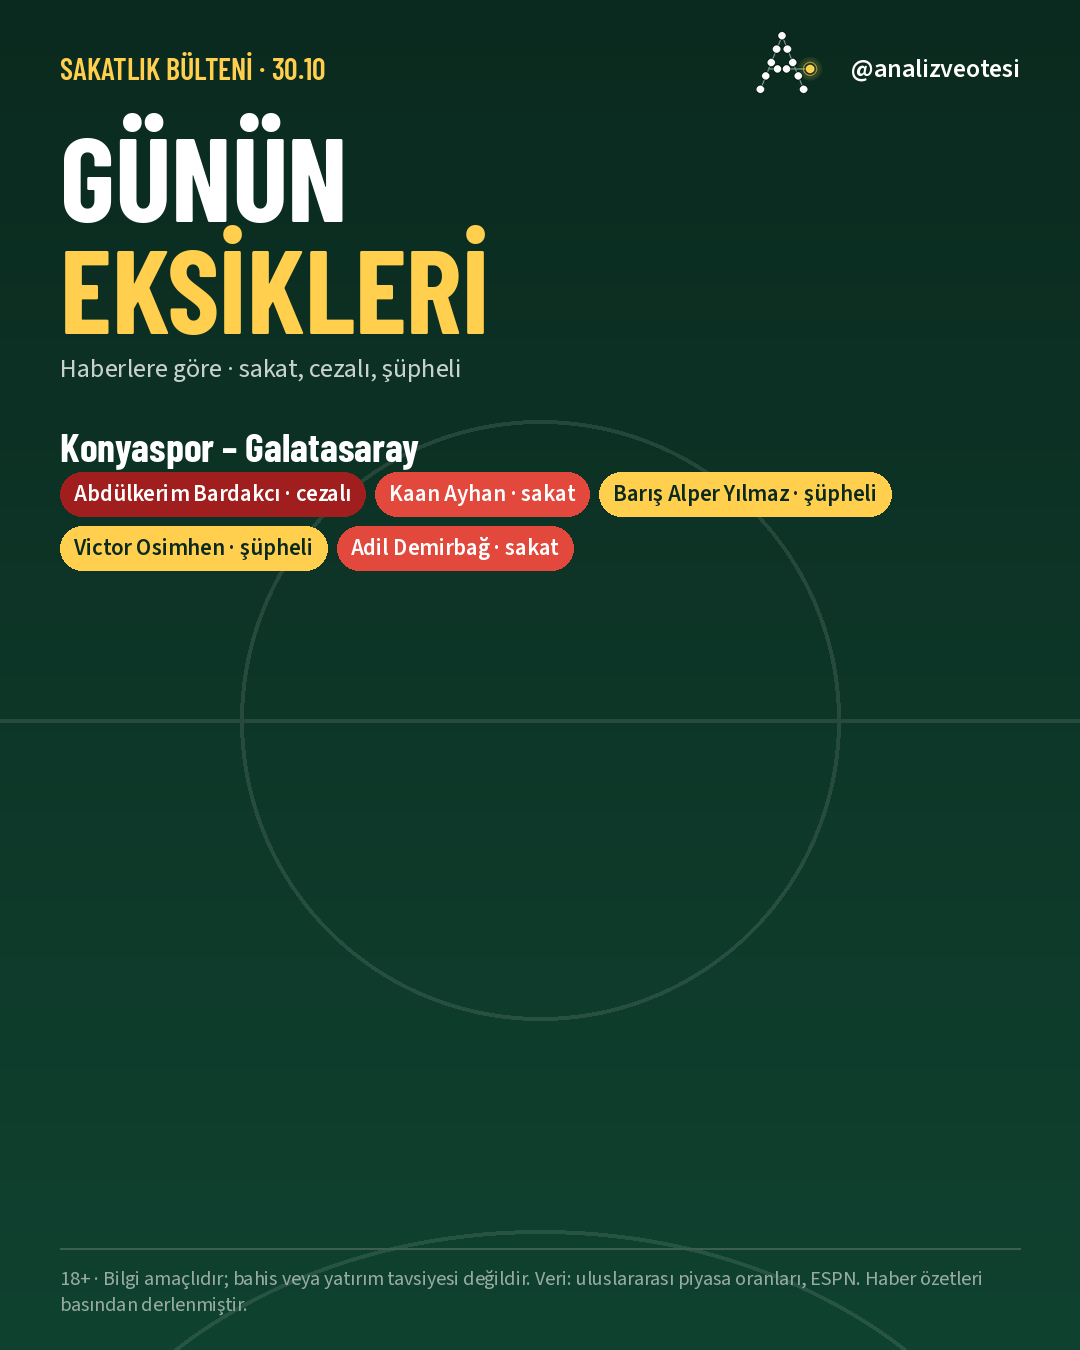
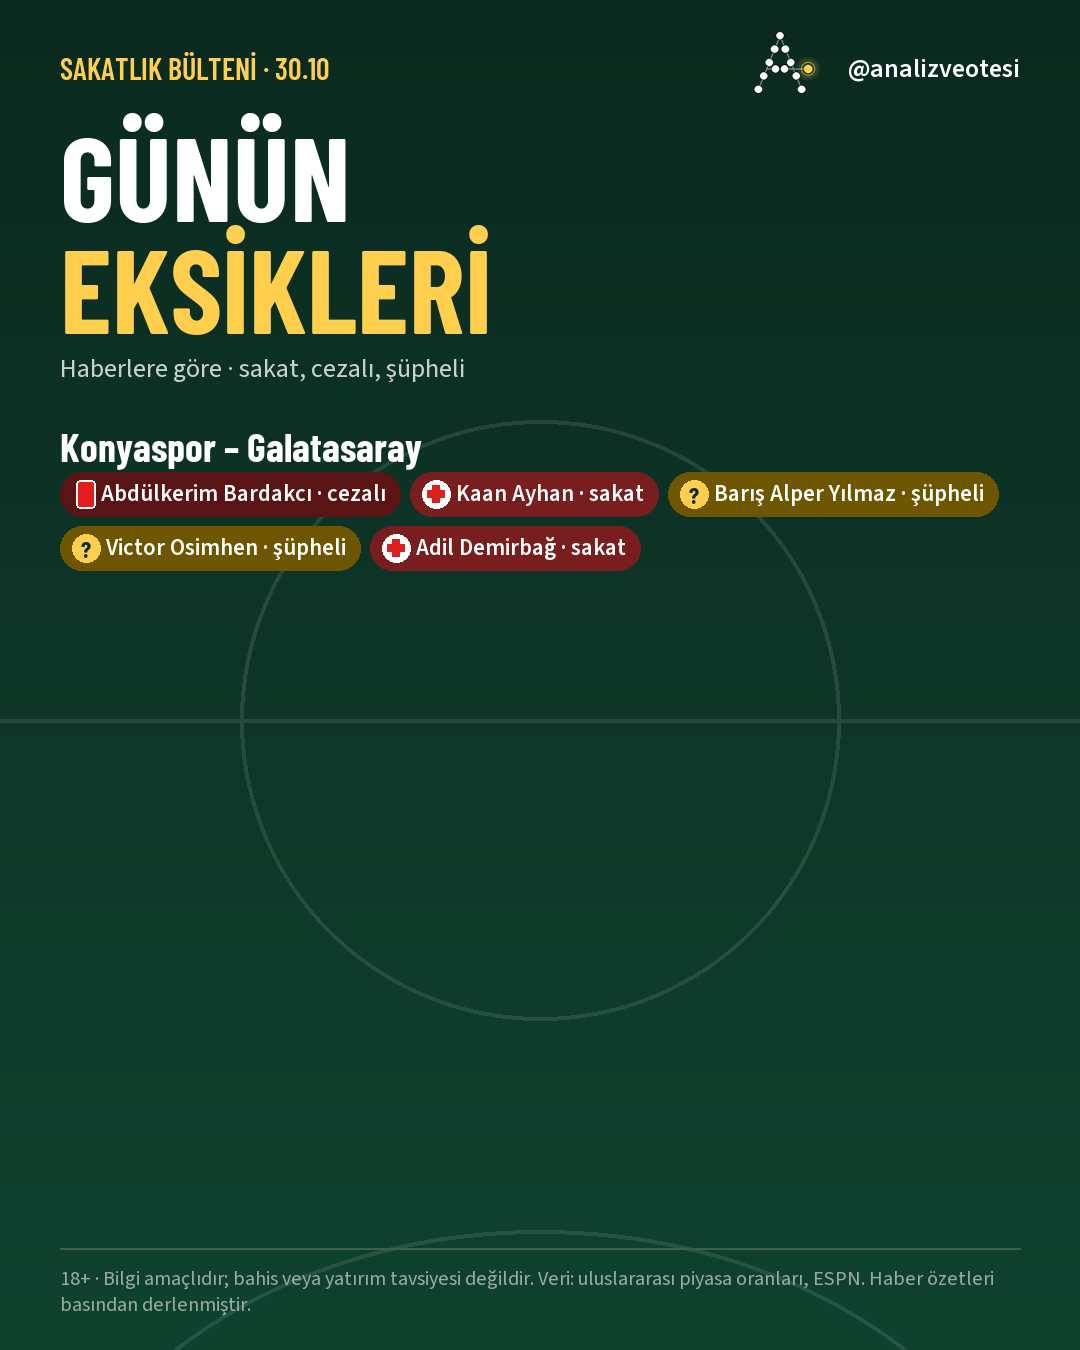
Eksik etiketlerinde durum simgeleri (kırmızı kart, sağlık artısı, soru, tik); kartlar elle yenilendi

diff --git a/docs/index.html b/docs/index.html
@@ -219,7 +219,7 @@ details.match summary{grid-template-columns:1fr auto}details.match summary time{
 
 <section class="board">
   <h1 class="verdict">Şu an oynanacak<br><em>fırsat yok.</em></h1>
-  <ul class="pills"><li><span class="pulse"></span>Nesine <b>18 dk önce</b> kontrol edildi</li><li>Dünya piyasası <b>3 saat önce</b> · gözcü açılınca tazelenir</li><li class="shadow">Gölge test · para oynanmıyor, her fırsat puanlanıyor</li></ul>
+  <ul class="pills"><li><span class="pulse"></span>Nesine <b>20 dk önce</b> kontrol edildi</li><li>Dünya piyasası <b>3 saat önce</b> · gözcü açılınca tazelenir</li><li class="shadow">Gölge test · para oynanmıyor, her fırsat puanlanıyor</li></ul>
   
 <ul class="facts">
   <li><div class="n">57</div><div class="l">yaklaşan maç takipte</div></li>

diff --git a/social.py b/social.py
@@ -124,12 +124,37 @@ def form_strip(d, x, y, games, size=44):
     return x
 
 
+def status_icon(d, x, y, status, h=28):
+    """Durum simgesi: cezalı = kırmızı kart, sakat = beyaz daire içinde kırmızı artı, şüpheli = sarı '?', döndü = yeşil tik."""
+    if status == "cezalı":
+        d.rounded_rectangle((x + 4, y, x + 4 + h * 0.68, y + h), radius=4, fill=(226, 30, 30), outline=WHITE, width=2)
+        return h * 0.68 + 8
+    if status == "sakat":
+        d.ellipse((x, y, x + h, y + h), fill=WHITE)
+        t = h * 0.22; c = h / 2
+        d.rectangle((x + c - t / 2, y + h * 0.2, x + c + t / 2, y + h * 0.8), fill=(220, 30, 30))
+        d.rectangle((x + h * 0.2, y + c - t / 2, x + h * 0.8, y + c + t / 2), fill=(220, 30, 30))
+        return h + 4
+    if status == "şüpheli":
+        d.ellipse((x, y, x + h, y + h), fill=YELLOW)
+        d.text((x + h / 2, y + h / 2 + 1), "?", font=font("display", int(h * 0.85)), fill=GREEN, anchor="mm")
+        return h + 4
+    if status == "döndü":
+        d.ellipse((x, y, x + h, y + h), fill=SIGNAL)
+        d.line((x + h * 0.25, y + h * 0.52, x + h * 0.43, y + h * 0.72, x + h * 0.76, y + h * 0.3), fill=GREEN, width=max(2, int(h * 0.12)), joint="curve")
+        return h + 4
+    return 0
+
+
 def status_pill(d, x, y, s, status):
-    col = {"sakat": RED, "cezalı": (160, 30, 30), "şüpheli": YELLOW, "döndü": SIGNAL}
-    fg = {"sakat": WHITE, "cezalı": WHITE, "şüpheli": GREEN, "döndü": GREEN}
-    f = font("semi", 23); w = f.getlength(s) + 28
+    """Etiket: simge + metin; metin 'Oyuncu · durum'."""
+    col = {"sakat": (120, 30, 30), "cezalı": (90, 20, 20), "şüpheli": (110, 85, 0), "döndü": (20, 90, 50)}
+    f = font("semi", 23)
+    icon_w = {"cezalı": 28 * 0.68 + 8, "sakat": 32, "şüpheli": 32, "döndü": 32}.get(status, 0)
+    w = f.getlength(s) + 28 + icon_w
     d.rounded_rectangle((x, y, x + w, y + 44), radius=22, fill=col.get(status, GREY))
-    d.text((x + 14, y + 22), s, font=f, fill=fg.get(status, WHITE), anchor="lm")
+    status_icon(d, x + 12, y + 8, status, 28)
+    d.text((x + 14 + icon_w, y + 22), s, font=f, fill=WHITE, anchor="lm")
     return w
 
 
@@ -245,12 +270,12 @@ def match_card(m, pm, ai, er, out_path):
         x = 60
         for a in absences[:6]:
             s = f"{a.get('player', '')} · {a.get('status', '')}"
-            w = font("semi", 23).getlength(s) + 28
+            w = font("semi", 23).getlength(s) + 28 + 34
             if x + w > W - 60:
                 x = 60; y += 54
             if y > H - 170:
                 break
-            status_pill(d, x, y, s, a.get("status")); x += w + 10
+            w = status_pill(d, x, y, s, a.get("status")); x += w + 10
         y += 60
     footer(d, dark=True)
     img.save(out_path, "PNG", optimize=True)
@@ -313,12 +338,12 @@ def injuries_card(items, day, out_path):
                 break
             text(d, (60, y), cur, font("display", 40), WHITE, max_w=W - 120); y += 50; x = 60
         s = f"{it['player']} · {it['status']}"
-        w = font("semi", 23).getlength(s) + 28
+        w = font("semi", 23).getlength(s) + 28 + 34
         if x + w > W - 60:
             x = 60; y += 54
         if y > H - 160:
             break
-        status_pill(d, x, y, s, it["status"]); x += w + 10
+        w = status_pill(d, x, y, s, it["status"]); x += w + 10
     if not items:
         text(d, (60, 440), "Bugünkü maçlarda haberlere yansıyan önemli eksik yok.", font("body", 28), WHITE)
     footer(d, dark=True)
